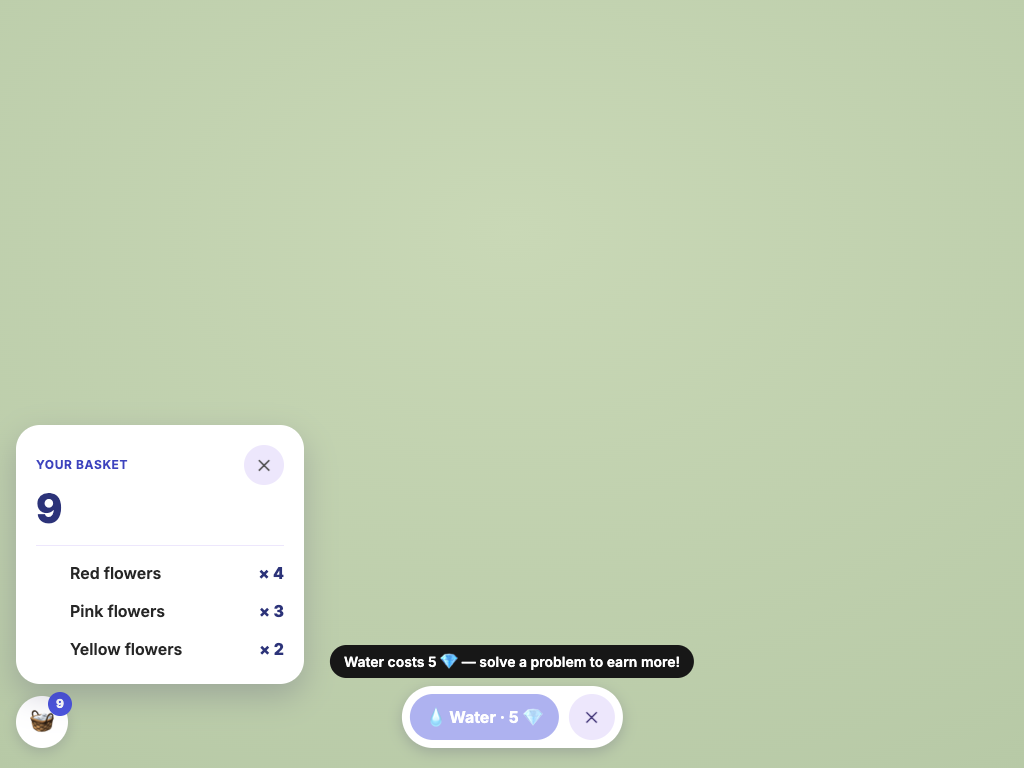
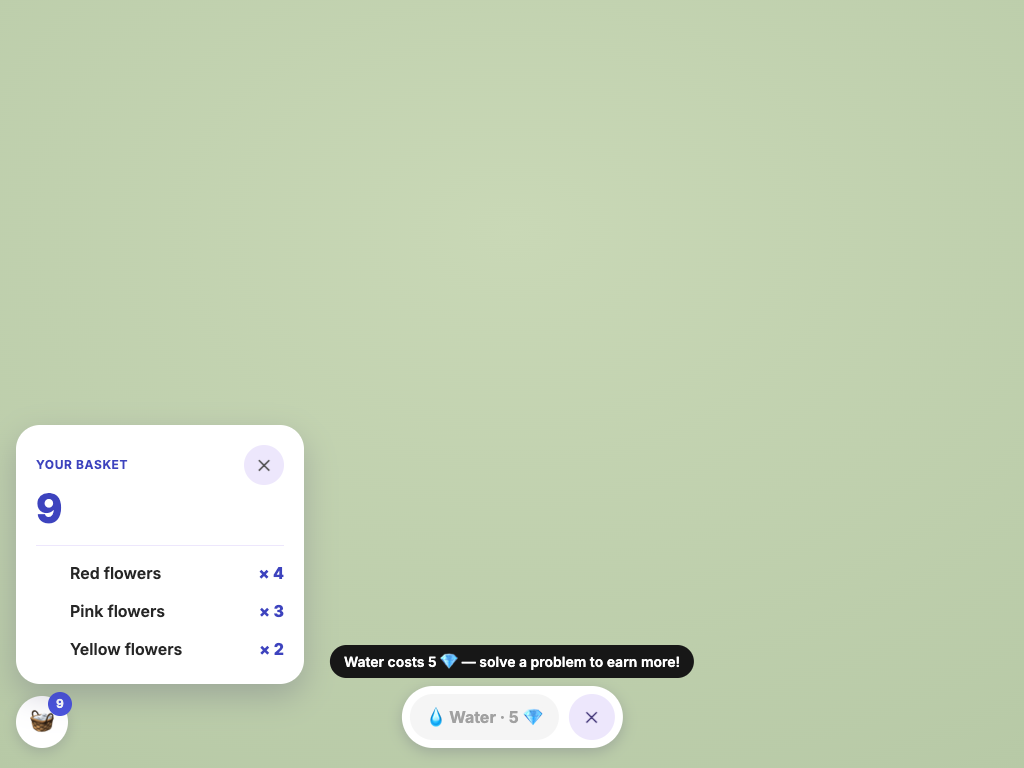
a11y round 3: Amy's eye-sheet picks
a) basket focus ring → --border-stroke-2 solid Iris 700, 2px outset
b) count chip → 12/700 (badge exception, weight only)
c) disabled Water → --color-background-interactive-disabled + --color-text-disabled
d) basket total + row counts → --color-text-brand
Eye-sheet `&opt=` overrides retired from the DEV harness (bg=world kept).
Audits on the final code: garden 98 · heroes 165 · shop 490, 0 fails each. 464 tests.

diff --git a/src/main.jsx b/src/main.jsx
@@ -582,26 +582,12 @@ function GardenAudit() {
     seeds: stage === 'noseed' ? 0 : 1,
   }
   // `&bg=world` = a real capture of Sunny Town (a11y-reports/garden/world-backdrop.png, HUD hidden)
-  // instead of the flat green. `&opt=a,b` = the eye-sheet options Amy hasn't decided (2026-10-20):
-  //   ring-700 · ring-outset2   basket focus ring (default = inset Iris 800)
-  //   badge-14                   the 🧺 count chip at 14/700 (default 12/800)
-  //   disabled-datum             Water-can't-afford on Datum disabled tokens (default opacity .45)
-  //   count-primary · count-brand  basket total + row counts (default raw --brand-iris-900)
-  const opts = new Set((AUDIT_Q.get('opt') || '').split(',').filter(Boolean))
-  const optCss = [
-    opts.has('ring-700') && '.hud-basket:focus-visible{outline-color:var(--brand-iris-700)!important}',
-    opts.has('ring-outset2') && '.hud-basket:focus-visible{outline:2px solid var(--brand-iris-700)!important;outline-offset:2px!important}',
-    opts.has('badge-14') && '.hud-basket>span{font-size:14px!important;font-weight:700!important;min-width:28px!important;height:28px!important;line-height:28px!important;top:-6px!important;right:-6px!important}',
-    opts.has('disabled-datum') && '[data-hint="garden-bar"] button:disabled{opacity:1!important;background:var(--color-background-interactive-disabled)!important;color:var(--color-text-disabled)!important}',
-    opts.has('count-primary') && '.basket-card [style*="--brand-iris-900"]{color:var(--color-text-primary)!important}',
-    opts.has('count-brand') && '.basket-card [style*="--brand-iris-900"]{color:var(--color-text-brand)!important}',
-  ].filter(Boolean).join('\n')
+  // instead of the flat green. (The eye sheet's `&opt=` overrides were retired once Amy picked, 2026-10-20.)
   const bg = AUDIT_Q.get('bg') === 'world'
     ? 'url(/a11y-reports/garden/world-backdrop.png) center / cover'
     : 'radial-gradient(130% 120% at 50% 30%,#C9D8B6,#B7C9A6 70%,#AEC29C)'
   return (
     <div data-audit-root style={{ position: 'fixed', inset: 0, background: bg }}>
-      {optCss && <style>{optCss}</style>}
       <Basket total={full ? 9 : 0} basket={full ? { starter: 4, pink: 3, yellow: 2 } : {}} />
       <GardenBar garden={garden} gems={Number(AUDIT_Q.get('gems') ?? 12)} onPlant={() => {}} onWater={() => {}} onClose={() => {}} />
     </div>

diff --git a/src/ui/Basket.jsx b/src/ui/Basket.jsx
@@ -56,7 +56,7 @@ export function BasketButton({ total, onTap, className = '', buttonRef, open = f
             background: 'var(--brand-iris-600)',
             color: 'var(--color-text-on-brand)',
             fontSize: 12,
-            fontWeight: 800,
+            fontWeight: 700, // the 12 is a badge exception; house weight 700 (Amy, 2026-10-20)
             lineHeight: '24px',
             boxSizing: 'border-box',
             animation: 'gempop 0.45s ease-out',
@@ -127,7 +127,7 @@ export function BasketCard({ total, basket, onClose }) {
 
         <div style={{ display: 'flex', alignItems: 'baseline', gap: 8, marginTop: 4 }}>
           {/* one generic unit, no label (spec: the basket IS the currency icon — "5 🧺") */}
-          <span style={{ fontSize: 40, fontWeight: 800, lineHeight: 1, color: 'var(--brand-iris-900)' }}>{total}</span>
+          <span style={{ fontSize: 40, fontWeight: 800, lineHeight: 1, color: 'var(--color-text-brand)' }}>{total}</span>
           <span style={{ fontSize: 28, lineHeight: 1 }} aria-hidden>🧺</span>
         </div>
 
@@ -139,7 +139,7 @@ export function BasketCard({ total, basket, onClose }) {
                 <li key={id} style={{ display: 'flex', alignItems: 'center', gap: 12, fontSize: 16, color: 'var(--color-text-primary)' }}>
                   <span style={{ fontSize: 20 }} aria-hidden>{k.emoji}</span>
                   <span style={{ flex: 1, fontWeight: 600 }}>{k.name}</span>
-                  <span style={{ fontWeight: 800, color: 'var(--brand-iris-900)' }}>× {n}</span>
+                  <span style={{ fontWeight: 800, color: 'var(--color-text-brand)' }}>× {n}</span>
                 </li>
               )
             })}

diff --git a/src/index.css b/src/index.css
@@ -715,11 +715,10 @@ a.doorApp:focus-visible { outline: 1px solid var(--brand-iris-700); outline-offs
    so they had the browser's default ring (a11y/garden.audit.mjs, 2026-10-20). The bar's
    buttons sit on its white pill → the house ring as-is. The Basket button floats on the 3D
    world: outside it, the ring sat on grass + its own drop shadow and measured 2.69:1 (Iris 700)
-   / 2.74:1 (Iris 800) — so it goes INSIDE the white button instead (like .doorNew-slide),
-   where it reads whatever the world behind. Inset, Iris 700 only just cleared (3.24:1 on 50%
-   of a 1px circle's edge) → one step UP to Iris 800 (= Datum's button focus-ring tokens): 3.57:1 · 57%. */
+   / 2.74:1 (Iris 800). Amy's pick from the eye sheet (a11y-reports/garden/eye-sheet.png,
+   2026-10-20): a 2px outset ring in Iris 700 — 3.21:1 over 92% of the edge on Sunny Town. */
 [data-hint="garden-bar"] button:focus-visible { outline: 1px solid var(--brand-iris-700); outline-offset: 2px; }
-.hud-basket:focus-visible { outline: 1px solid var(--brand-iris-800); outline-offset: -2px; }
+.hud-basket:focus-visible { outline: var(--border-stroke-2) solid var(--brand-iris-700); outline-offset: 2px; }
 
 /* ── 🧺 Basket (Grow a Garden ticket 8) ──
    The card grows up out of the bottom-left button. On phones the garden bar

diff --git a/src/App.jsx b/src/App.jsx
@@ -1662,12 +1662,12 @@ function ActionBar({ hint, buttons, hintKey = 'action-bar' }) {
               padding: '0 16px',
               borderRadius: 999,
               border: 'none',
-              background: b.primary ? 'var(--brand-iris-600)' : 'var(--color-component-button-secondary-background-default)',
-              color: b.primary ? 'var(--color-text-on-brand)' : 'var(--brand-lilac-900)',
+              // disabled (Water she can't afford yet) = Datum's disabled tokens, not a faded CTA (Amy, 2026-10-20)
+              background: b.disabled ? 'var(--color-background-interactive-disabled)' : b.primary ? 'var(--brand-iris-600)' : 'var(--color-component-button-secondary-background-default)',
+              color: b.disabled ? 'var(--color-text-disabled)' : b.primary ? 'var(--color-text-on-brand)' : 'var(--brand-lilac-900)',
               fontSize: 16,
               fontWeight: 700,
               cursor: b.disabled ? 'default' : 'pointer',
-              opacity: b.disabled ? 0.45 : 1,
             }}
           >
             {b.label}

diff --git a/a11y-reports/garden/report.md b/a11y-reports/garden/report.md
@@ -1,6 +1,6 @@
 # Contrast audit — Garden overlays (Basket + GardenBar)
 
-**Standard:** WCAG 2.2 AA · **Source:** `src/ui/Basket.jsx · src/App.jsx (GardenBar/ActionBar)` · **Run:** 2026-10-21 01:09 UTC  
+**Standard:** WCAG 2.2 AA · **Source:** `src/ui/Basket.jsx · src/App.jsx (GardenBar/ActionBar)` · **Run:** 2026-10-21 02:03 UTC  
 **Variants:** A seed to plant · basket empty, Growing, can water (12 💎) · basket full, Growing, can’t afford water (2 💎) · basket full, Bloomed · basket full, No seeds yet · basket empty · **Phases:** closed → basket-open
 
 > **98 unique checks · 92 pass · 0 fail · 1 exempt (disabled) · 0 need review**
@@ -25,14 +25,14 @@ None — every check passes WCAG 2.2 AA. 🎉
 | Your garden 🌱 | `#FFFFFF` on `#171717` | 14px | 17.92:1 | 4.50:1 | ✅ | closed, basket-open |
 | 🌱 Plant your seed | `#FFFFFF` on `#4B54DD` | 16px bold | 5.81:1 | 4.50:1 | ✅ | closed, basket-open |
 | YOUR BASKET | `#3D43BE` on `#FFFFFF` | 12px bold | 7.65:1 | 4.50:1 | ✅ | basket-open |
-| 0 | `#2C3379` on `#FFFFFF` | 40px bold (large) | 11.31:1 | 3.00:1 | ✅ | basket-open |
+| 0 | `#3D43BE` on `#FFFFFF` | 40px bold (large) | 7.65:1 | 3.00:1 | ✅ | basket-open |
 | Empty for now. Grow flowers in Sunny Town and pick them to f | `#525252` on `#FFFFFF` | 14px | 7.81:1 | 4.50:1 | ✅ | basket-open |
 
 ### Interactive elements — every state
 
 | Element | Default | Hover | Pressed | Focus (text) | Focus indicator | Seen in |
 |---|---|---|---|---|---|---|
-| Open your basket — 0 harvested | — | — | — | — | ✅ 3.61:1 · 67% of edge | closed, basket-open |
+| Open your basket — 0 harvested | — | — | — | — | ✅ 4.06:1 · 100% of edge | closed, basket-open |
 | Plant your seed | ✅ 5.81:1 | ✅ 5.81:1 | ✅ 5.81:1 | ✅ 5.81:1 | ✅ 7.65:1 · 89% of edge | closed, basket-open |
 | Close | ✅ 7.98:1 | ✅ 7.98:1 | ✅ 7.98:1 | ✅ 7.98:1 | ✅ 3.74:1 · 73% of edge | closed, basket-open |
 | Close your basket | ✅ 6.49:1 | ✅ 6.49:1 | ✅ 6.49:1 | ✅ 6.49:1 | ✅ 4.04:1 · 80% of edge | basket-open |
@@ -47,19 +47,19 @@ None — every check passes WCAG 2.2 AA. 🎉
 | Water it to help it grow 💧 | `#FFFFFF` on `#171717` | 14px | 17.92:1 | 4.50:1 | ✅ | closed, basket-open |
 | 💧 Water · 5 💎 | `#FFFFFF` on `#4B54DD` | 16px bold | 5.81:1 | 4.50:1 | ✅ | closed, basket-open |
 | YOUR BASKET | `#3D43BE` on `#FFFFFF` | 12px bold | 7.65:1 | 4.50:1 | ✅ | basket-open |
-| 9 | `#2C3379` on `#FFFFFF` | 40px bold (large) | 11.31:1 | 3.00:1 | ✅ | basket-open |
+| 9 | `#3D43BE` on `#FFFFFF` | 40px bold (large) | 7.65:1 | 3.00:1 | ✅ | basket-open |
 | Red flowers | `#262626` on `#FFFFFF` | 16px | 15.13:1 | 4.50:1 | ✅ | basket-open |
-| × 4 | `#2C3379` on `#FFFFFF` | 16px bold | 11.31:1 | 4.50:1 | ✅ | basket-open |
+| × 4 | `#3D43BE` on `#FFFFFF` | 16px bold | 7.65:1 | 4.50:1 | ✅ | basket-open |
 | Pink flowers | `#262626` on `#FFFFFF` | 16px | 15.13:1 | 4.50:1 | ✅ | basket-open |
-| × 3 | `#2C3379` on `#FFFFFF` | 16px bold | 11.31:1 | 4.50:1 | ✅ | basket-open |
+| × 3 | `#3D43BE` on `#FFFFFF` | 16px bold | 7.65:1 | 4.50:1 | ✅ | basket-open |
 | Yellow flowers | `#262626` on `#FFFFFF` | 16px | 15.13:1 | 4.50:1 | ✅ | basket-open |
-| × 2 | `#2C3379` on `#FFFFFF` | 16px bold | 11.31:1 | 4.50:1 | ✅ | basket-open |
+| × 2 | `#3D43BE` on `#FFFFFF` | 16px bold | 7.65:1 | 4.50:1 | ✅ | basket-open |
 
 ### Interactive elements — every state
 
 | Element | Default | Hover | Pressed | Focus (text) | Focus indicator | Seen in |
 |---|---|---|---|---|---|---|
-| Open your basket — 9 harvested | ✅ 5.81:1 | ✅ 5.81:1 | ✅ 5.81:1 | ✅ 5.81:1 | ✅ 3.57:1 · 57% of edge | closed, basket-open |
+| Open your basket — 9 harvested | ✅ 5.81:1 | ✅ 5.81:1 | ✅ 5.81:1 | ✅ 5.81:1 | ✅ 3.98:1 · 100% of edge | closed, basket-open |
 | Water your plant | ✅ 5.81:1 | ✅ 5.81:1 | ✅ 5.81:1 | ✅ 5.81:1 | ✅ 7.65:1 · 86% of edge | closed, basket-open |
 | Close | ✅ 7.98:1 | ✅ 7.98:1 | ✅ 7.98:1 | ✅ 7.98:1 | ✅ 3.79:1 · 70% of edge | closed, basket-open |
 | Close your basket | ✅ 6.49:1 | ✅ 6.49:1 | ✅ 6.49:1 | ✅ 6.49:1 | ✅ 4.04:1 · 80% of edge | basket-open |
@@ -73,20 +73,20 @@ None — every check passes WCAG 2.2 AA. 🎉
 | 9 | `#FFFFFF` on `#4B54DD` | 12px bold | 5.81:1 | 4.50:1 | ✅ | closed, basket-open |
 | Water costs 5 💎 — solve a problem to earn more! | `#FFFFFF` on `#171717` | 14px | 17.92:1 | 4.50:1 | ✅ | closed, basket-open |
 | YOUR BASKET | `#3D43BE` on `#FFFFFF` | 12px bold | 7.65:1 | 4.50:1 | ✅ | basket-open |
-| 9 | `#2C3379` on `#FFFFFF` | 40px bold (large) | 11.31:1 | 3.00:1 | ✅ | basket-open |
+| 9 | `#3D43BE` on `#FFFFFF` | 40px bold (large) | 7.65:1 | 3.00:1 | ✅ | basket-open |
 | Red flowers | `#262626` on `#FFFFFF` | 16px | 15.13:1 | 4.50:1 | ✅ | basket-open |
-| × 4 | `#2C3379` on `#FFFFFF` | 16px bold | 11.31:1 | 4.50:1 | ✅ | basket-open |
+| × 4 | `#3D43BE` on `#FFFFFF` | 16px bold | 7.65:1 | 4.50:1 | ✅ | basket-open |
 | Pink flowers | `#262626` on `#FFFFFF` | 16px | 15.13:1 | 4.50:1 | ✅ | basket-open |
-| × 3 | `#2C3379` on `#FFFFFF` | 16px bold | 11.31:1 | 4.50:1 | ✅ | basket-open |
+| × 3 | `#3D43BE` on `#FFFFFF` | 16px bold | 7.65:1 | 4.50:1 | ✅ | basket-open |
 | Yellow flowers | `#262626` on `#FFFFFF` | 16px | 15.13:1 | 4.50:1 | ✅ | basket-open |
-| × 2 | `#2C3379` on `#FFFFFF` | 16px bold | 11.31:1 | 4.50:1 | ✅ | basket-open |
+| × 2 | `#3D43BE` on `#FFFFFF` | 16px bold | 7.65:1 | 4.50:1 | ✅ | basket-open |
 
 ### Interactive elements — every state
 
 | Element | Default | Hover | Pressed | Focus (text) | Focus indicator | Seen in |
 |---|---|---|---|---|---|---|
-| Open your basket — 9 harvested | ✅ 5.81:1 | ✅ 5.81:1 | ✅ 5.81:1 | ✅ 5.81:1 | ✅ 3.57:1 · 57% of edge | closed, basket-open |
-| Water your plant | ⚪ disabled 1.40:1 — exempt (WCAG 1.4.3) | | | | | closed, basket-open |
+| Open your basket — 9 harvested | ✅ 5.81:1 | ✅ 5.81:1 | ✅ 5.81:1 | ✅ 5.81:1 | ✅ 3.98:1 · 100% of edge | closed, basket-open |
+| Water your plant | ⚪ disabled 2.37:1 — exempt (WCAG 1.4.3) | | | | | closed, basket-open |
 | Close | ✅ 7.98:1 | ✅ 7.98:1 | ✅ 7.98:1 | ✅ 7.98:1 | ✅ 4.29:1 · 71% of edge | closed, basket-open |
 | Close your basket | ✅ 6.49:1 | ✅ 6.49:1 | ✅ 6.49:1 | ✅ 6.49:1 | ✅ 4.04:1 · 80% of edge | basket-open |
 
@@ -99,13 +99,13 @@ None — every check passes WCAG 2.2 AA. 🎉
 | 9 | `#FFFFFF` on `#4B54DD` | 12px bold | 5.81:1 | 4.50:1 | ✅ | closed, basket-open |
 | It bloomed! Tap your flowers to pick them 🌸 | `#FFFFFF` on `#171717` | 14px | 17.92:1 | 4.50:1 | ✅ | closed, basket-open |
 | YOUR BASKET | `#3D43BE` on `#FFFFFF` | 12px bold | 7.65:1 | 4.50:1 | ✅ | basket-open |
-| 9 | `#2C3379` on `#FFFFFF` | 40px bold (large) | 11.31:1 | 3.00:1 | ✅ | basket-open |
+| 9 | `#3D43BE` on `#FFFFFF` | 40px bold (large) | 7.65:1 | 3.00:1 | ✅ | basket-open |
 | Red flowers | `#262626` on `#FFFFFF` | 16px | 15.13:1 | 4.50:1 | ✅ | basket-open |
-| × 4 | `#2C3379` on `#FFFFFF` | 16px bold | 11.31:1 | 4.50:1 | ✅ | basket-open |
+| × 4 | `#3D43BE` on `#FFFFFF` | 16px bold | 7.65:1 | 4.50:1 | ✅ | basket-open |
 | Pink flowers | `#262626` on `#FFFFFF` | 16px | 15.13:1 | 4.50:1 | ✅ | basket-open |
-| × 3 | `#2C3379` on `#FFFFFF` | 16px bold | 11.31:1 | 4.50:1 | ✅ | basket-open |
+| × 3 | `#3D43BE` on `#FFFFFF` | 16px bold | 7.65:1 | 4.50:1 | ✅ | basket-open |
 | Yellow flowers | `#262626` on `#FFFFFF` | 16px | 15.13:1 | 4.50:1 | ✅ | basket-open |
-| × 2 | `#2C3379` on `#FFFFFF` | 16px bold | 11.31:1 | 4.50:1 | ✅ | basket-open |
+| × 2 | `#3D43BE` on `#FFFFFF` | 16px bold | 7.65:1 | 4.50:1 | ✅ | basket-open |
 
 ## No seeds yet · basket empty
 
@@ -116,7 +116,7 @@ None — every check passes WCAG 2.2 AA. 🎉
 | No seeds right now — more are on the way ✨ | `#FFFFFF` on `#171717` | 14px | 17.92:1 | 4.50:1 | ✅ | closed, basket-open |
 | OK | `#FFFFFF` on `#4B54DD` | 16px bold | 5.81:1 | 4.50:1 | ✅ | closed, basket-open |
 | YOUR BASKET | `#3D43BE` on `#FFFFFF` | 12px bold | 7.65:1 | 4.50:1 | ✅ | basket-open |
-| 0 | `#2C3379` on `#FFFFFF` | 40px bold (large) | 11.31:1 | 3.00:1 | ✅ | basket-open |
+| 0 | `#3D43BE` on `#FFFFFF` | 40px bold (large) | 7.65:1 | 3.00:1 | ✅ | basket-open |
 | Empty for now. Grow flowers in Sunny Town and pick them to f | `#525252` on `#FFFFFF` | 14px | 7.81:1 | 4.50:1 | ✅ | basket-open |
 
 ---

diff --git a/a11y-reports/heroes/report.md b/a11y-reports/heroes/report.md
@@ -1,6 +1,6 @@
 # Contrast audit — Heroes picker (Gem Shop)
 
-**Standard:** WCAG 2.2 AA · **Source:** `src/ui/Shop.jsx` · **Run:** 2026-10-21 01:04 UTC  
+**Standard:** WCAG 2.2 AA · **Source:** `src/ui/Shop.jsx` · **Run:** 2026-10-21 02:04 UTC  
 **Variants:** 60 gems · playing Sunny · Champ unlocked, 4 gems · playing the Sorcerer (every locked hero unaffordable) · **Phases:** default → unlock-asked
 
 > **165 unique checks · 153 pass · 0 fail · 12 exempt (disabled) · 0 need review**

diff --git a/a11y-reports/shop/report.md b/a11y-reports/shop/report.md
@@ -1,6 +1,6 @@
 # Contrast audit — Shop
 
-**Standard:** WCAG 2.2 AA · **Source:** `src/ui/Shop.jsx` · **Run:** 2026-10-21 01:09 UTC  
+**Standard:** WCAG 2.2 AA · **Source:** `src/ui/Shop.jsx` · **Run:** 2026-10-21 02:06 UTC  
 **Variants:** 4 gems · your things · sparkle on, 0 gems (nothing affordable) · **Phases:** default → selected → magic-selected → big
 
 > **490 unique checks · 462 pass · 0 fail · 26 exempt (disabled) · 0 need review**
